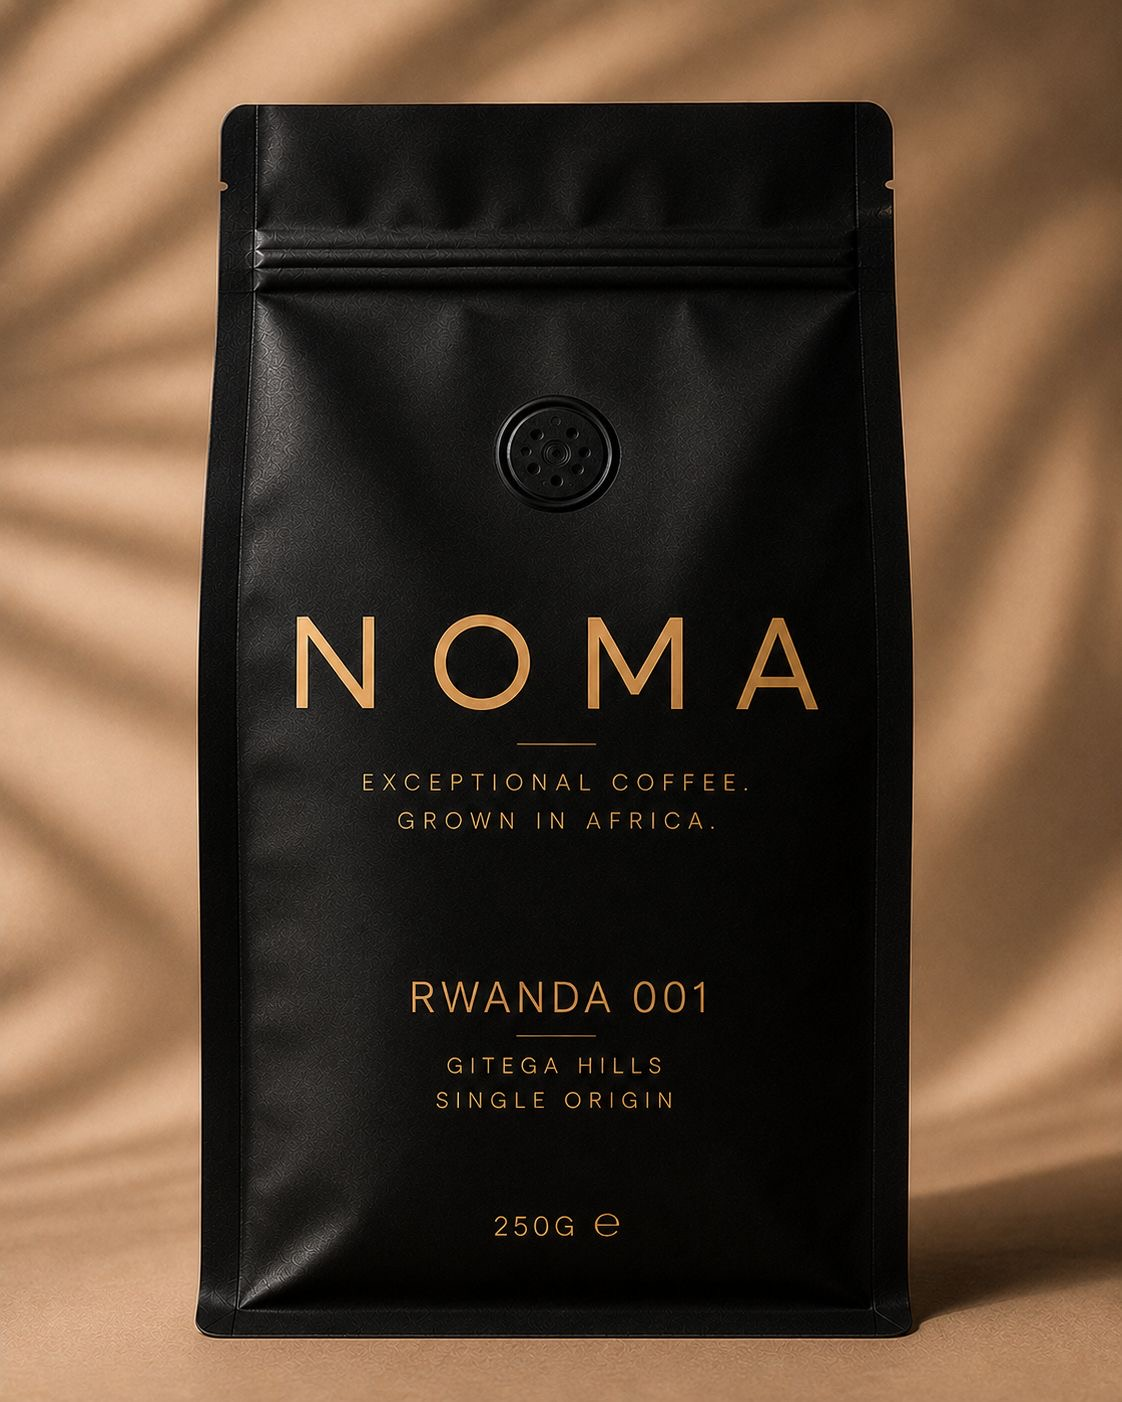
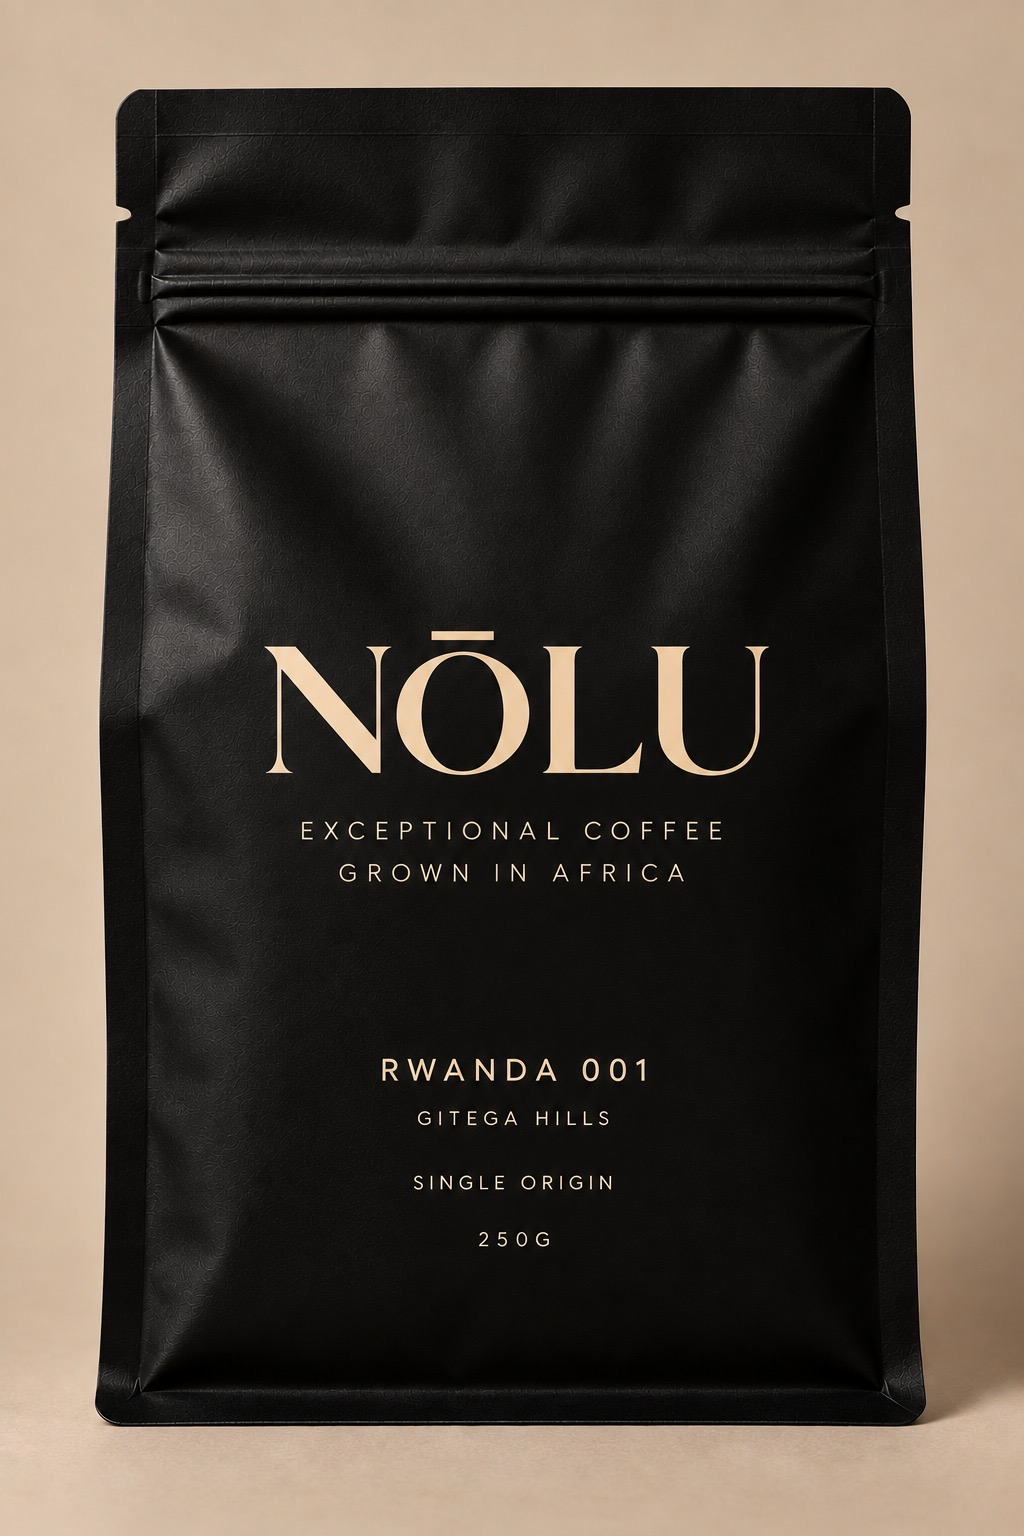
updates

diff --git a/app/layout.tsx b/app/layout.tsx
@@ -12,32 +12,34 @@ const geistMono = Geist_Mono({
   subsets: ["latin"],
 });
 
-const siteUrl = "https://www.noma.co.za";
+const siteUrl = "https://www.nolu.co.za";
 
 export const metadata: Metadata = {
   metadataBase: new URL(siteUrl),
   title: {
-    default: "NOMA | Exceptional Coffee, Grown in Africa",
-    template: "%s | NOMA",
+    default: "NŌLU | Exceptional Coffee, Grown in Africa",
+    template: "%s | NŌLU",
   },
   description:
-    "NOMA is a woman-led, African-founded coffee company celebrating single-origin coffee grown across the continent — starting with Uganda 001, grown on Mount Elgon.",
+    "NŌLU is a woman-led, African-founded coffee company celebrating single-origin coffee grown across the continent — starting with Uganda 001, grown on Mount Elgon.",
   keywords: [
-    "NOMA",
+    "NŌLU",
+    "Nolu",
     "African coffee",
     "single origin coffee",
     "Uganda coffee",
     "Mount Elgon coffee",
     "woman-led coffee brand",
     "South African coffee",
+    "South African tea",
   ],
-  authors: [{ name: "NOMA" }],
+  authors: [{ name: "NOLU" }],
   openGraph: {
     type: "website",
     locale: "en_ZA",
     url: siteUrl,
-    siteName: "NOMA",
-    title: "NOMA | Exceptional Coffee, Grown in Africa",
+    siteName: "NŌLU",
+    title: "NŌLU | Exceptional Coffee, Grown in Africa",
     description:
       "Single-origin African coffee, sourced with care and shared with the world. Discover Uganda 001, grown on Mount Elgon.",
     images: [
@@ -45,13 +47,13 @@ export const metadata: Metadata = {
         url: "/og-image.png",
         width: 1200,
         height: 630,
-        alt: "NOMA — Exceptional coffee, grown in Africa.",
+        alt: "NŌLU — Exceptional coffee, grown in Africa.",
       },
     ],
   },
   twitter: {
     card: "summary_large_image",
-    title: "NOMA | Exceptional Coffee, Grown in Africa",
+    title: "NŌLU | Exceptional Coffee, Grown in Africa",
     description:
       "Single-origin African coffee, sourced with care and shared with the world.",
     images: ["/og-image.png"],

diff --git a/components/footer.tsx b/components/footer.tsx
@@ -14,7 +14,7 @@ export default function Footer() {
                   N
                 </span>
                 <span className="text-2xl font-semibold tracking-tight text-stone-950">
-                  NOMA.
+                  NŌLU.
                 </span>
               </Link>
               <p className="mt-4 max-w-[220px] text-sm leading-6 text-stone-600">
@@ -102,11 +102,11 @@ export default function Footer() {
               <p className="mt-4 text-sm text-stone-700">
                 Roasted in South Africa
               </p>
-              <p className="mt-1 text-sm text-stone-700">hello@noma.co.za</p>
+              <p className="mt-1 text-sm text-stone-700">hello@nolu.ie</p>
 
               <div className="mt-4 flex items-center gap-2">
                 <a
-                  href="https://www.instagram.com/noma/"
+                  href="https://www.instagram.com/nolu/"
                   aria-label="Instagram"
                   className="flex h-9 w-9 items-center justify-center rounded-full border border-stone-900/8 bg-white/45 text-stone-700 shadow-sm transition hover:bg-white/70 hover:text-stone-950"
                 >

diff --git a/components/story.tsx b/components/story.tsx
@@ -2,7 +2,7 @@ export default function OurStory() {
   return (
     <section
       id="our-story"
-      className="w-full bg-[#3b2a1e] px-6 py-28 text-amber-50 lg:px-10 lg:py-40"
+      className="w-full bg-[#3b2a1e] px-6 py-28 text-amber-50 lg:px-10 lg:py-36"
     >
       <div className="mx-auto w-full max-w-7xl">
         <div className="grid grid-cols-1 gap-12 lg:grid-cols-12 lg:gap-6">
@@ -26,9 +26,9 @@ export default function OurStory() {
           </div>
 
           {/* right: narrative body, offset down on desktop */}
-          <div className="lg:col-span-6 lg:col-start-7 lg:pt-24">
+          <div className="lg:col-span-6 lg:col-start-7 lg:pt-0">
             <p className="text-base leading-8 text-amber-50/80">
-              NOMA began with the Putu family, bringing coffee home from small
+              NŌLU began with the Putu family, bringing coffee home from small
               farming communities across Rwanda, Burundi, Kenya and Uganda to
               share with friends in Johannesburg.
             </p>

diff --git a/components/nav.tsx b/components/nav.tsx
@@ -10,7 +10,7 @@ export default function AppNavBar() {
             <span className="flex h-9 w-9 items-center justify-center rounded-2xl bg-stone-950 text-sm font-bold text-white transition group-hover:bg-amber-800">
               N
             </span>
-            <span className="text-2xl font-semibold tracking-tight">NOMA.</span>
+            <span className="text-2xl font-semibold tracking-tight">NŌLU.</span>
           </Link>
 
           <div className="hidden items-center gap-2 rounded-full border border-stone-900/8 bg-white/42 p-1 shadow-sm backdrop-blur-xl lg:flex">

diff --git a/components/hero.tsx b/components/hero.tsx
@@ -21,7 +21,7 @@ export default function Hero() {
         <div className="grid grid-cols-1 items-center gap-10 py-10 md:py-12 lg:grid-cols-2 lg:gap-12 lg:py-16">
           <div>
             <h1 className="text-6xl font-light leading-[0.95] tracking-normal text-stone-950 sm:text-7xl lg:text-8xl xl:text-9xl">
-              NOMA
+              NŌLU
             </h1>
             <p className="mt-4 text-sm font-medium uppercase leading-6 tracking-[0.24em] text-stone-500">
               Exceptional coffee. Grown in Africa.

diff --git a/components/shop.tsx b/components/shop.tsx
@@ -24,7 +24,7 @@ export default function Shop() {
         <div className="mt-14 grid grid-cols-1 gap-x-8 gap-y-16 sm:grid-cols-2 lg:grid-cols-4">
           {products.map((product) => (
             <div key={product.slug} className="flex flex-col">
-              <div className="relative aspect-[4/5] w-full bg-stone-200/50">
+              <div className="relative aspect-[4/6] w-full bg-stone-200/50">
                 {product.image ? (
                   <Image
                     src={product.image}

diff --git a/lib/products.ts b/lib/products.ts
@@ -18,7 +18,7 @@ export type Product = {
 export const products: Product[] = [
   {
     slug: "uganda-001",
-    name: "Uganda 001",
+    name: "Uganda Mount Elgon",
     origin: "Mount Elgon, Uganda",
     notes: "Dark chocolate, blackcurrant, caramel",
     format: "250g · Whole Bean / Ground",
